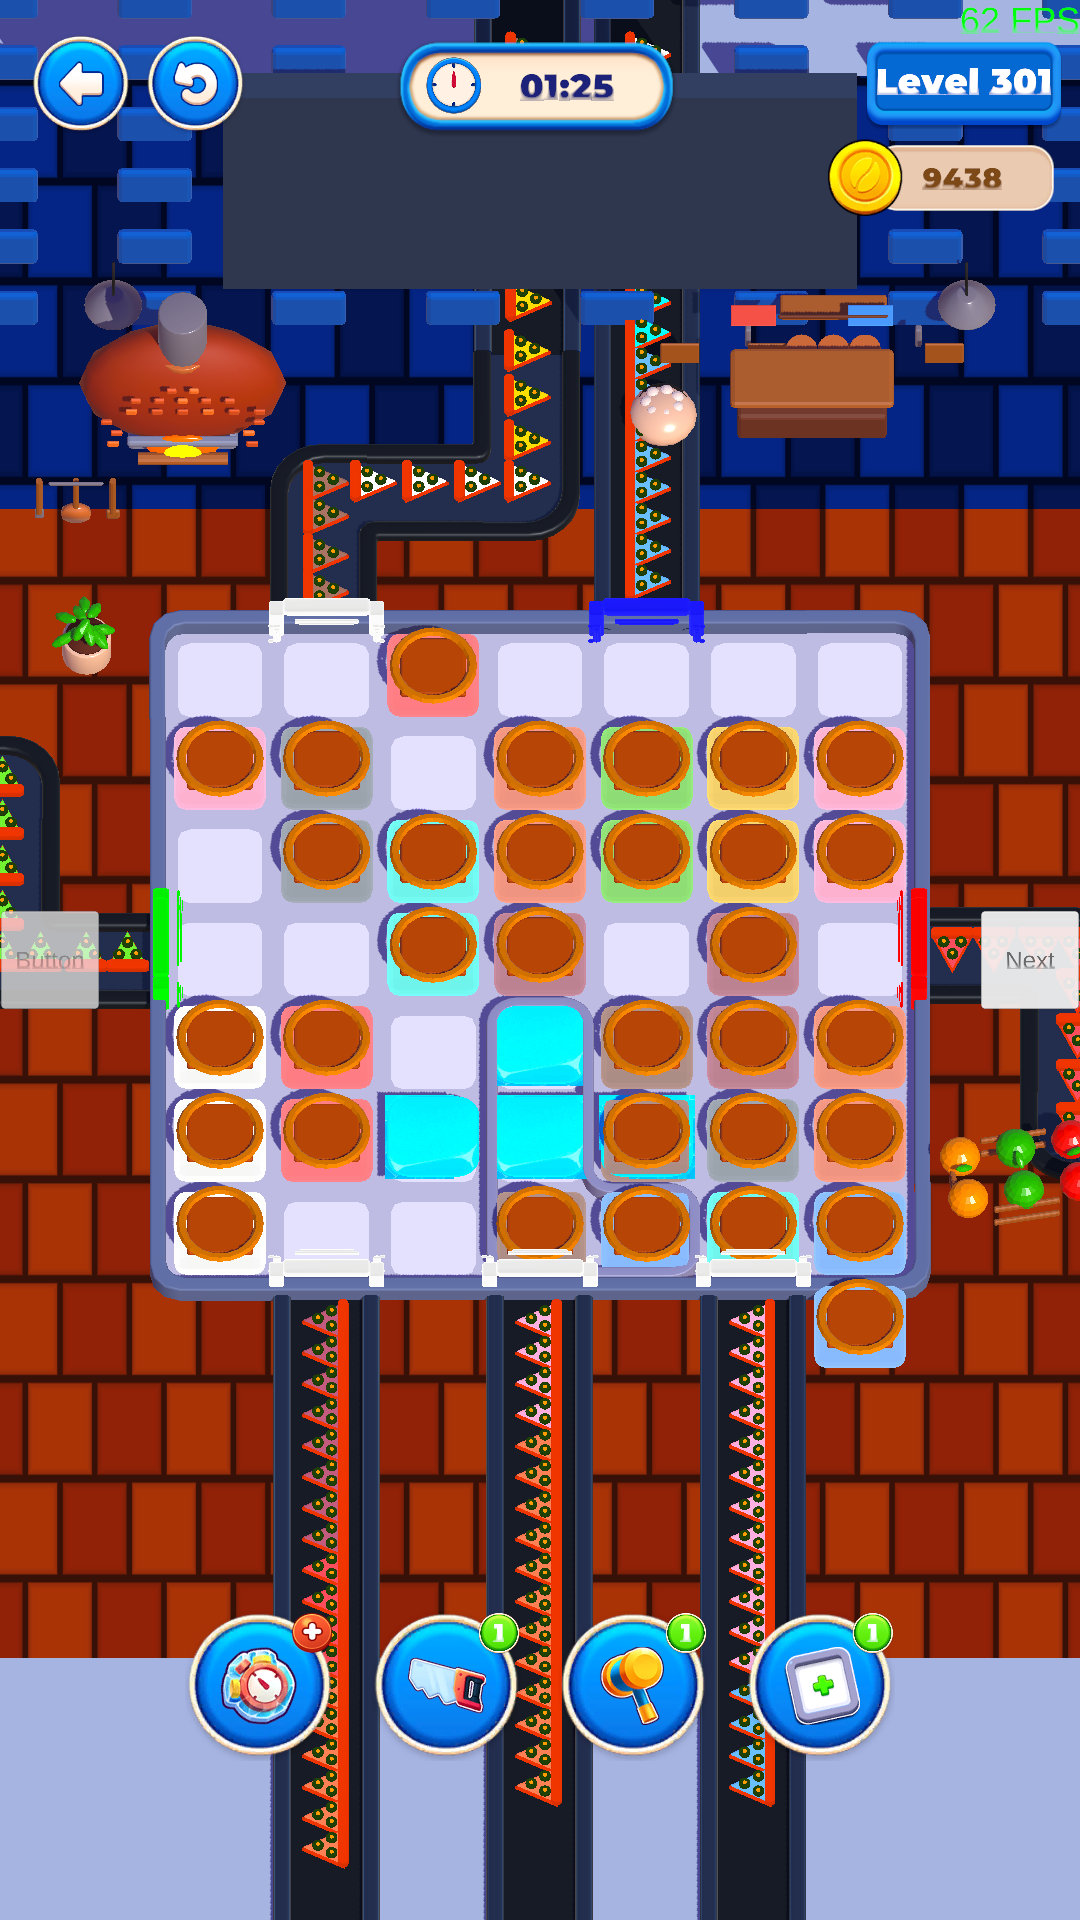
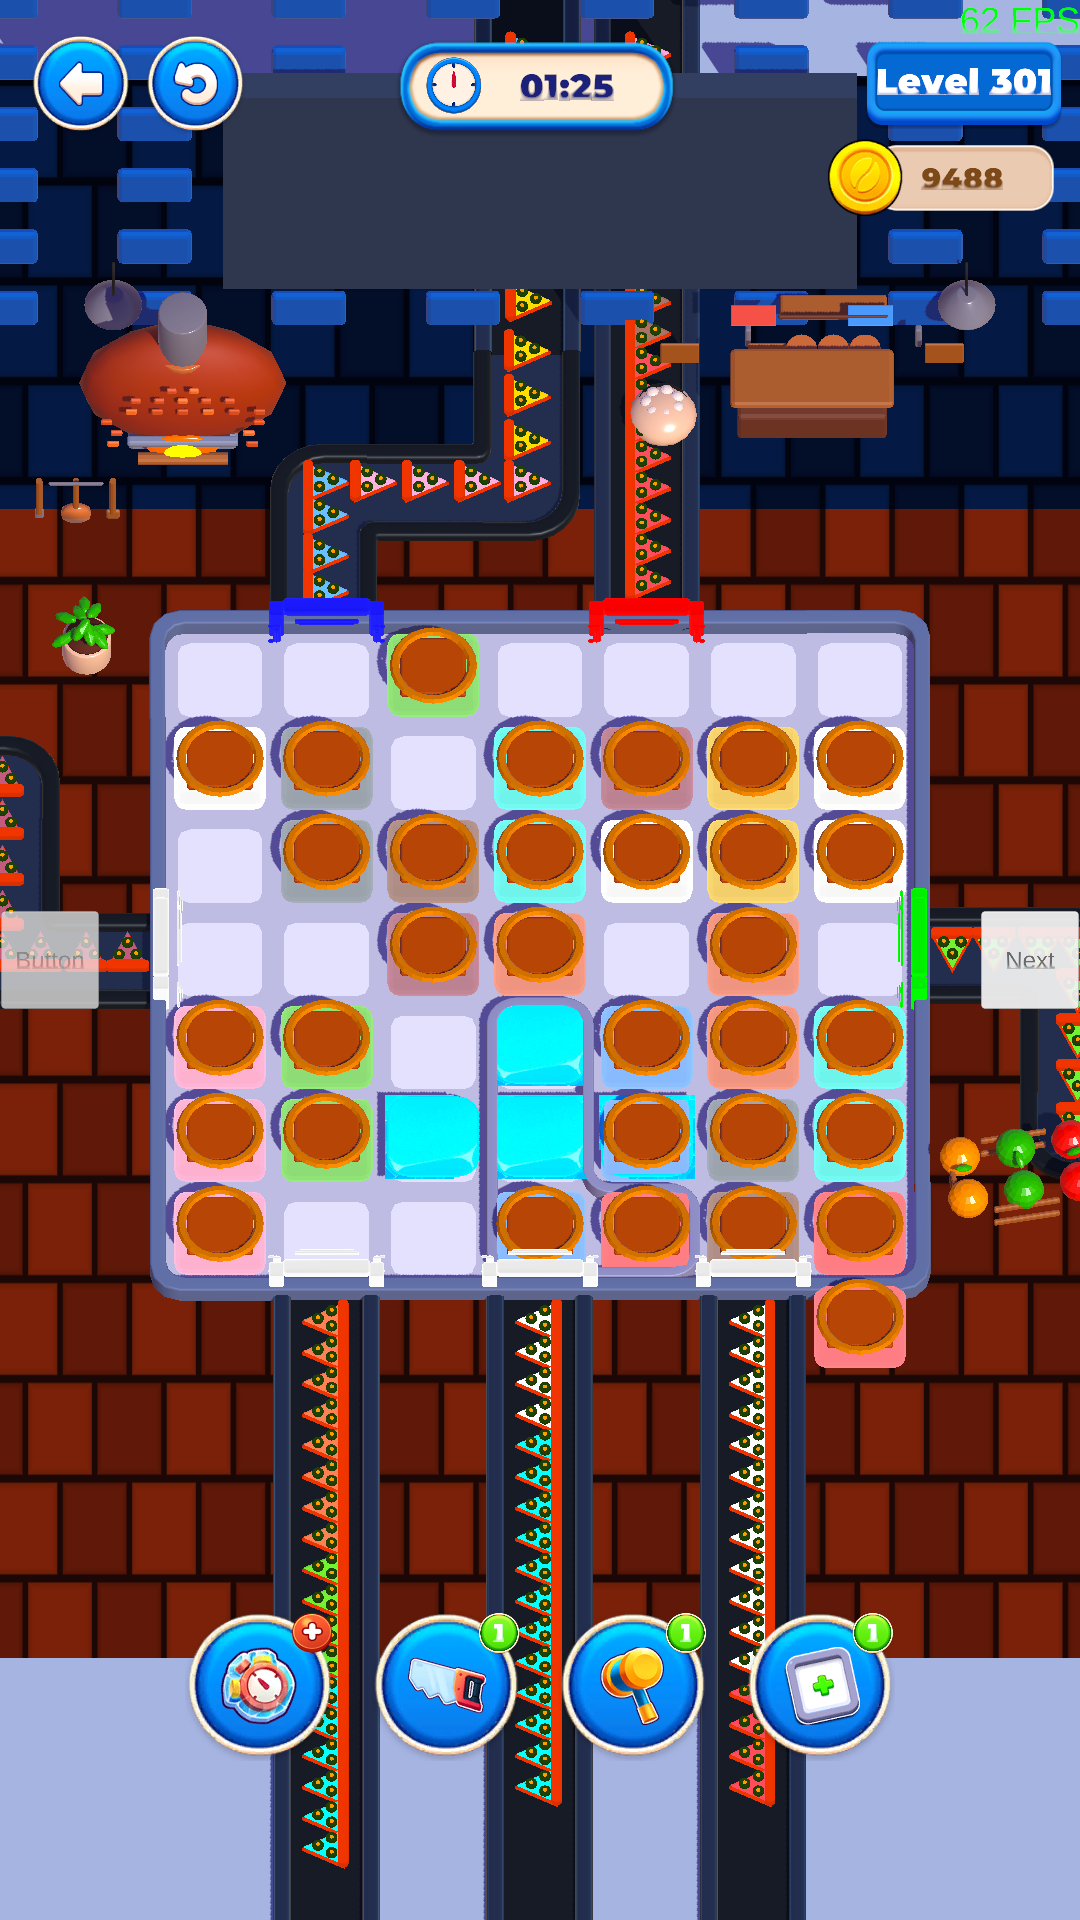
Refine PR3D kitchen backdrop palette

diff --git a/Art/PR3D/build_manifest.py b/Art/PR3D/build_manifest.py
@@ -218,6 +218,20 @@ def build() -> dict[str, object]:
                         )
                     ),
                 },
+                "environment_palette": {
+                    "strategy": "deepen and desaturate the procedural wall/floor palette so the board and gameplay colors remain the portrait focal point",
+                    "floor_tile_a": [0.36, 0.115, 0.038, 1.0],
+                    "floor_tile_b": [0.55, 0.22, 0.065, 1.0],
+                    "floor_grout": [0.11, 0.035, 0.022, 1.0],
+                    "wall_tile_a": [0.015, 0.06, 0.16, 1.0],
+                    "wall_tile_b": [0.025, 0.15, 0.34, 1.0],
+                    "assets": records(
+                        (
+                            "Assets/_Projects/Art/PR3D/Environment/PR3D_TerracottaBackdrop.shader",
+                            "Assets/_Projects/Art/PR3D/Materials/PR3D_MAT_TerracottaBackdrop.mat",
+                        )
+                    ),
+                },
                 "portrait_evidence": records(
                     (
                         "Assets/_Projects/Art/PR3D/Evidence/Polish/PR3D_Level301_Polish_1080x1920.png",
@@ -251,11 +265,12 @@ def build() -> dict[str, object]:
                 "report": "CoffeeRunMigration/Reports/runtime-replay/0301.json",
             },
             "editor_profile_polish": {
-                "cpu_frame_time_ms": 15.873291,
-                "cpu_main_thread_frame_time_ms": 3.307832,
-                "gpu_frame_time_ms": 9.406625002156943,
-                "gfx_used_memory_bytes": 492913820,
+                "cpu_frame_time_ms": 14.128792,
+                "cpu_main_thread_frame_time_ms": 2.552374,
+                "gpu_frame_time_ms": 8.772499997576233,
+                "gfx_used_memory_bytes": 492903356,
                 "mesh_memory_bytes": 8041108,
+                "total_used_memory_bytes": 2670224497,
                 "note": "Unity Editor sample; use a device build before rollout.",
             },
             "gameplay_contract_changes": [],

diff --git a/docs/reviews/pr3d-level301-validation.md b/docs/reviews/pr3d-level301-validation.md
@@ -21,6 +21,10 @@ format. The referenced GUIDs/file IDs did not change.
   food shaders now use a low-cost stylized normal ramp, preserving the single
   shared mesh and runtime color assignment while improving spacing and depth
   at phone scale.
+- The procedural kitchen backdrop now uses a deeper navy wall and muted
+  terracotta floor. This is a material/shader palette-only change: the backdrop
+  still has zero Colliders and zero MonoBehaviours, and its mesh/transform are
+  unchanged.
 - Runtime replay: `Passed`, 108/108 drag actions, 27 feed actions, 148 total
   productions transferred, zero remaining production, Win reached, no skill or
   booster used.
@@ -76,9 +80,9 @@ The original PR3D-001 capture did not expose a valid GPU counter, so the
 same-session additive-root A/B is the comparable GPU gate. The clean full-art
 sample reported 7.815 ms GPU and 2.188 ms CPU main-thread time.
 
-The follow-up polish sample in the Unity Editor reported 15.873 ms total CPU
-frame time, 3.308 ms on the main thread and 9.407 ms GPU time. Gfx used memory
-was 492,913,820 bytes and mesh memory was 8,041,108 bytes. This remains an
+The latest follow-up sample in the Unity Editor reported 14.129 ms total CPU
+frame time, 2.552 ms on the main thread and 8.772 ms GPU time. Gfx used memory
+was 492,903,356 bytes and mesh memory was 8,041,108 bytes. This remains an
 Editor-only sample; a device build is required before any rollout decision.
 
 ## Console

diff --git a/docs/technical/3d-art-pipeline.md b/docs/technical/3d-art-pipeline.md
@@ -80,6 +80,10 @@ MonoBehaviours, places, and serialized renderer lists stay intact.
 - Board and environment are collider-free children of `LevelRunner`.
 - The environment backdrop is a collider-free quad with a procedural URP
   material: warm terracotta below the factory wall split and blue tiles above.
+- The accepted Level 301 backdrop palette keeps the floor between
+  `(0.36, 0.115, 0.038)` and `(0.55, 0.22, 0.065)`, and the wall between
+  `(0.015, 0.06, 0.16)` and `(0.025, 0.15, 0.34)`. Retain the deeper,
+  desaturated relationship so the board remains the portrait focal point.
 
 After any integration edit, compare the gameplay prefab MonoBehaviour/collider
 YAML blocks to HEAD, verify the Level 301 JSON hash, run

diff --git a/docs/changelog.md b/docs/changelog.md
@@ -1,5 +1,9 @@
 # Changelog
 
+- Tuned the Level 301 procedural kitchen palette against the concept, replacing
+  the saturated wall/floor colors with deeper navy and muted terracotta. The
+  refreshed three-ratio evidence and 108-drag replay pass preserve the
+  collider-free backdrop and every gameplay contract.
 - Polished the accepted Level 301 slice against the pizza-factory concept:
   corrected seven gate meshes to cross their production rails, reduced the
   shared pizza footprint for readable spacing, added stylized food shading,

diff --git a/docs/reviews/pr3d-vertical-slice-review.md b/docs/reviews/pr3d-vertical-slice-review.md
@@ -42,6 +42,8 @@ Accepted:
   original line transforms and colliders preserved;
 - pizza markers retain the shared-mesh contract but have clearer spacing and
   stronger low-poly surface separation;
+- the deeper navy/terracotta backdrop better matches the concept and gives the
+  board and runtime colors stronger focal priority at all three ratios;
 - performance and Console gates pass.
 
 Non-blocking polish opportunities:
